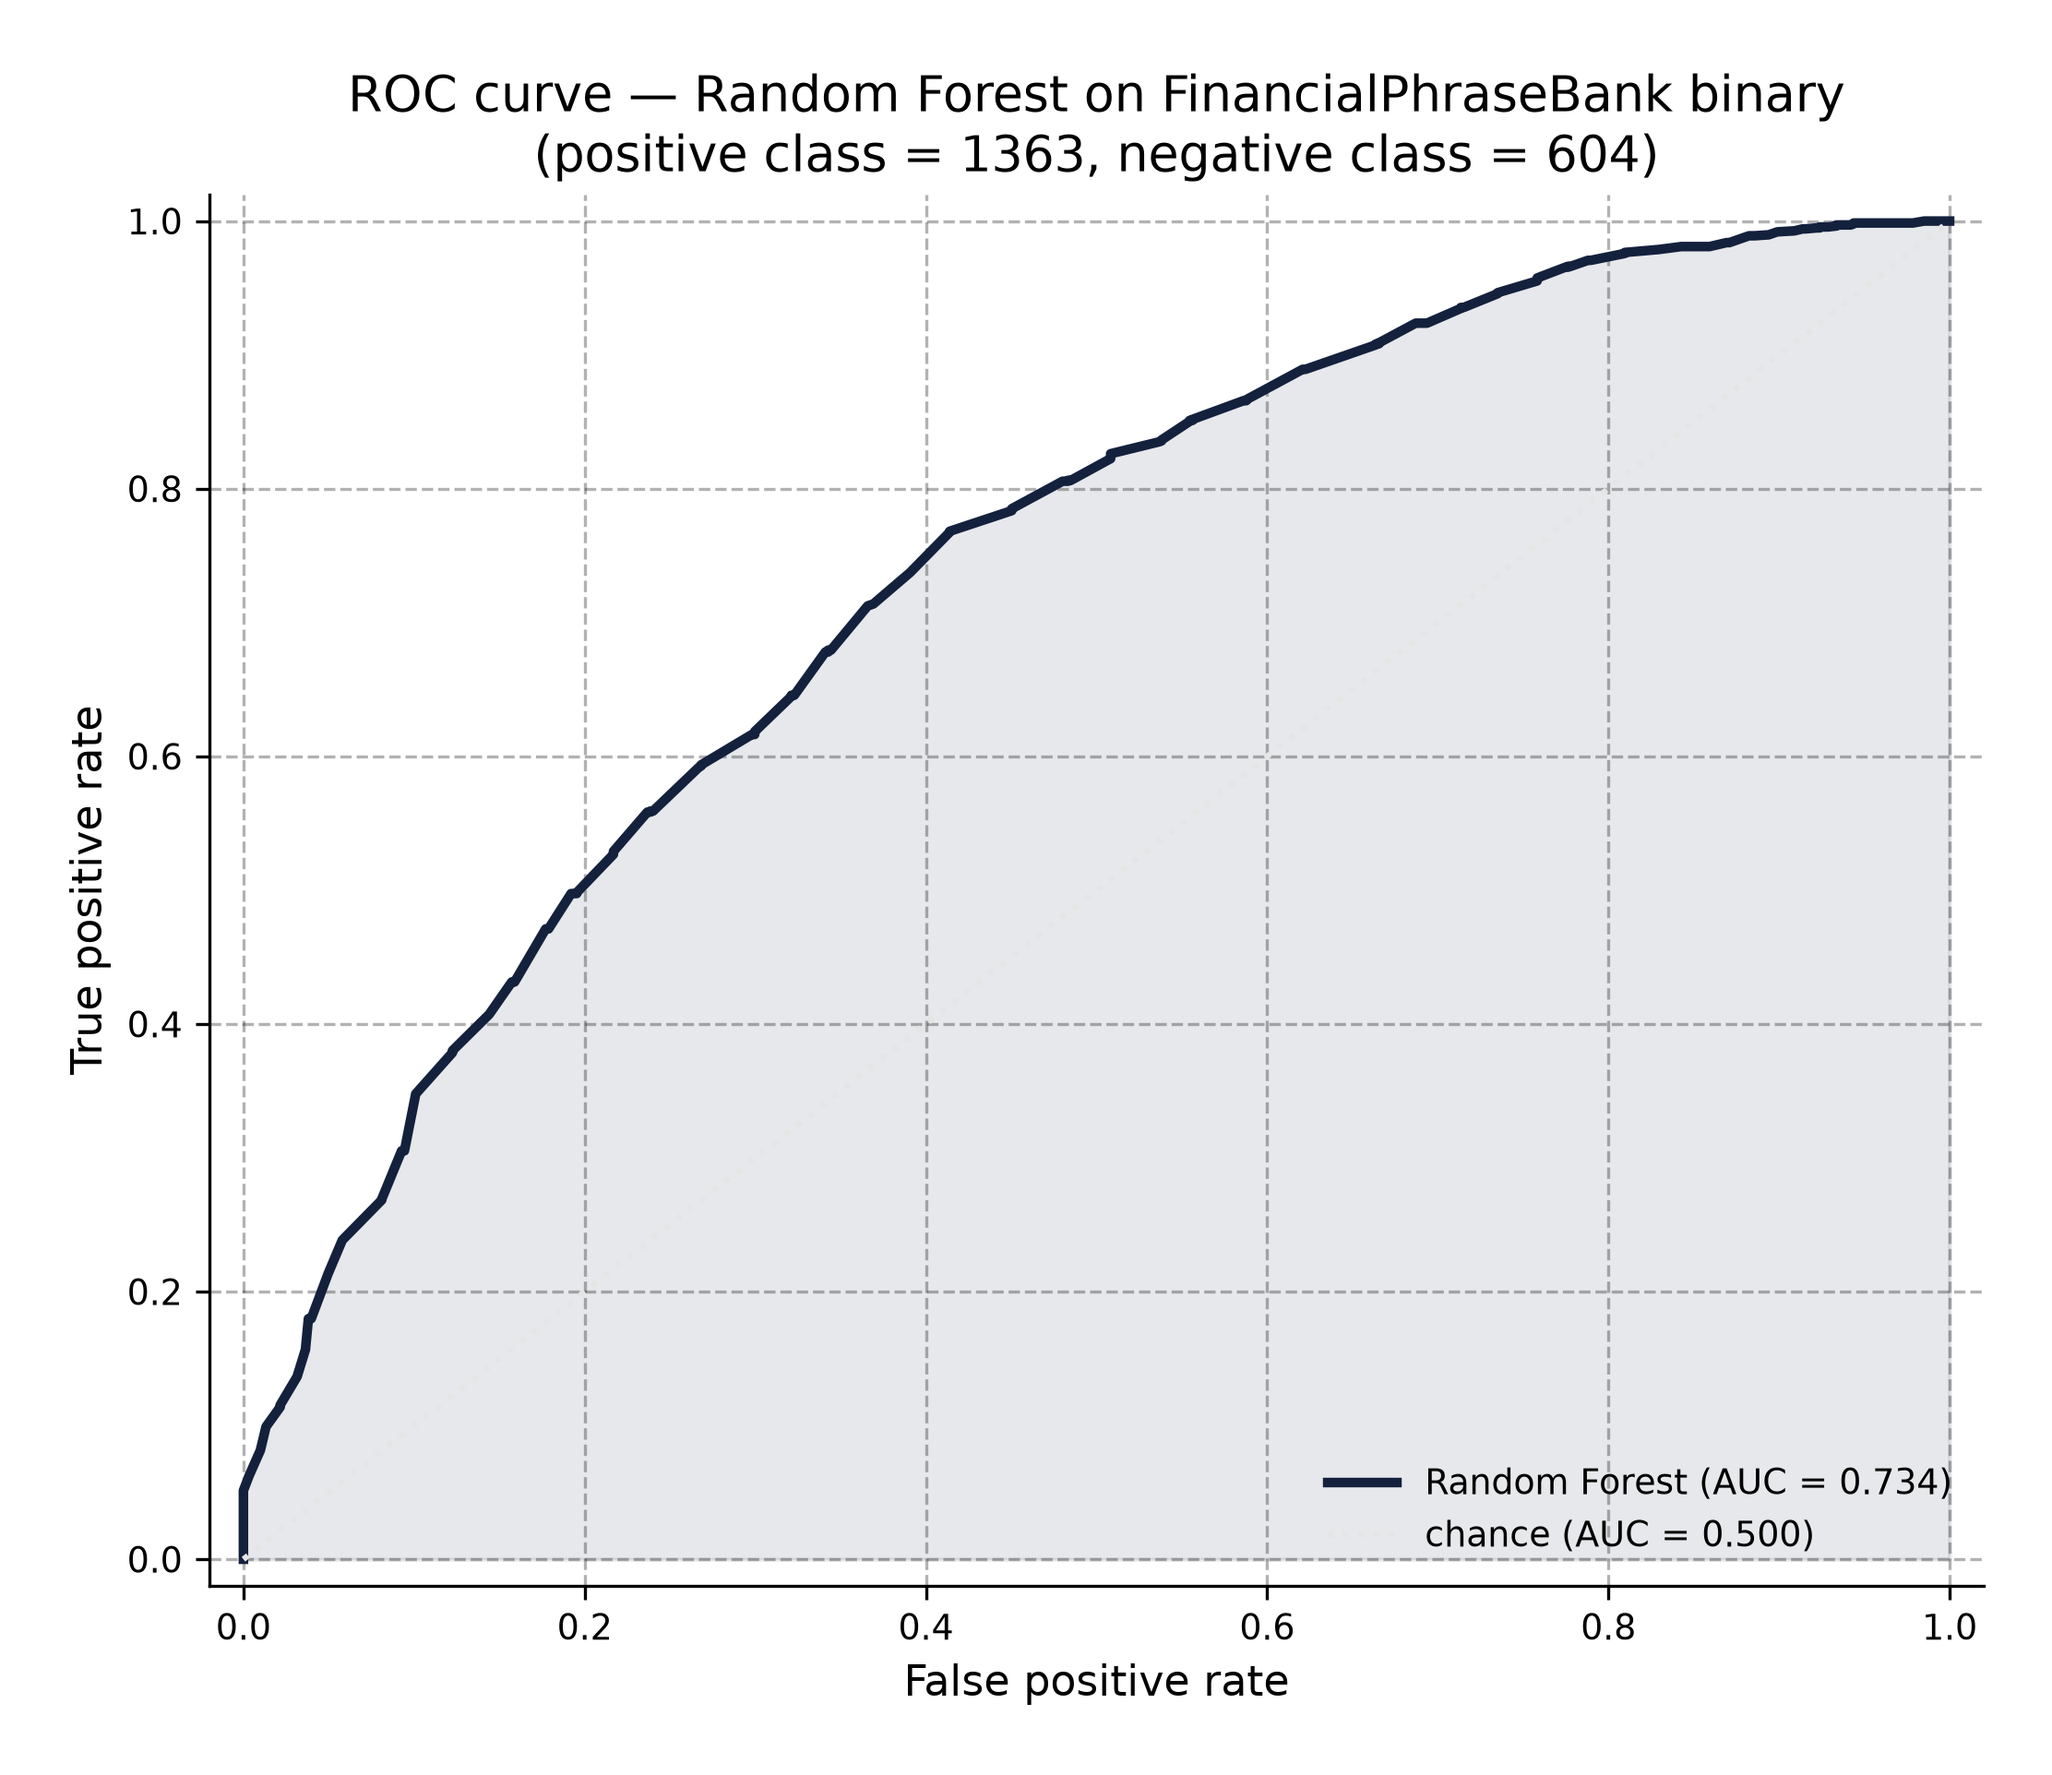
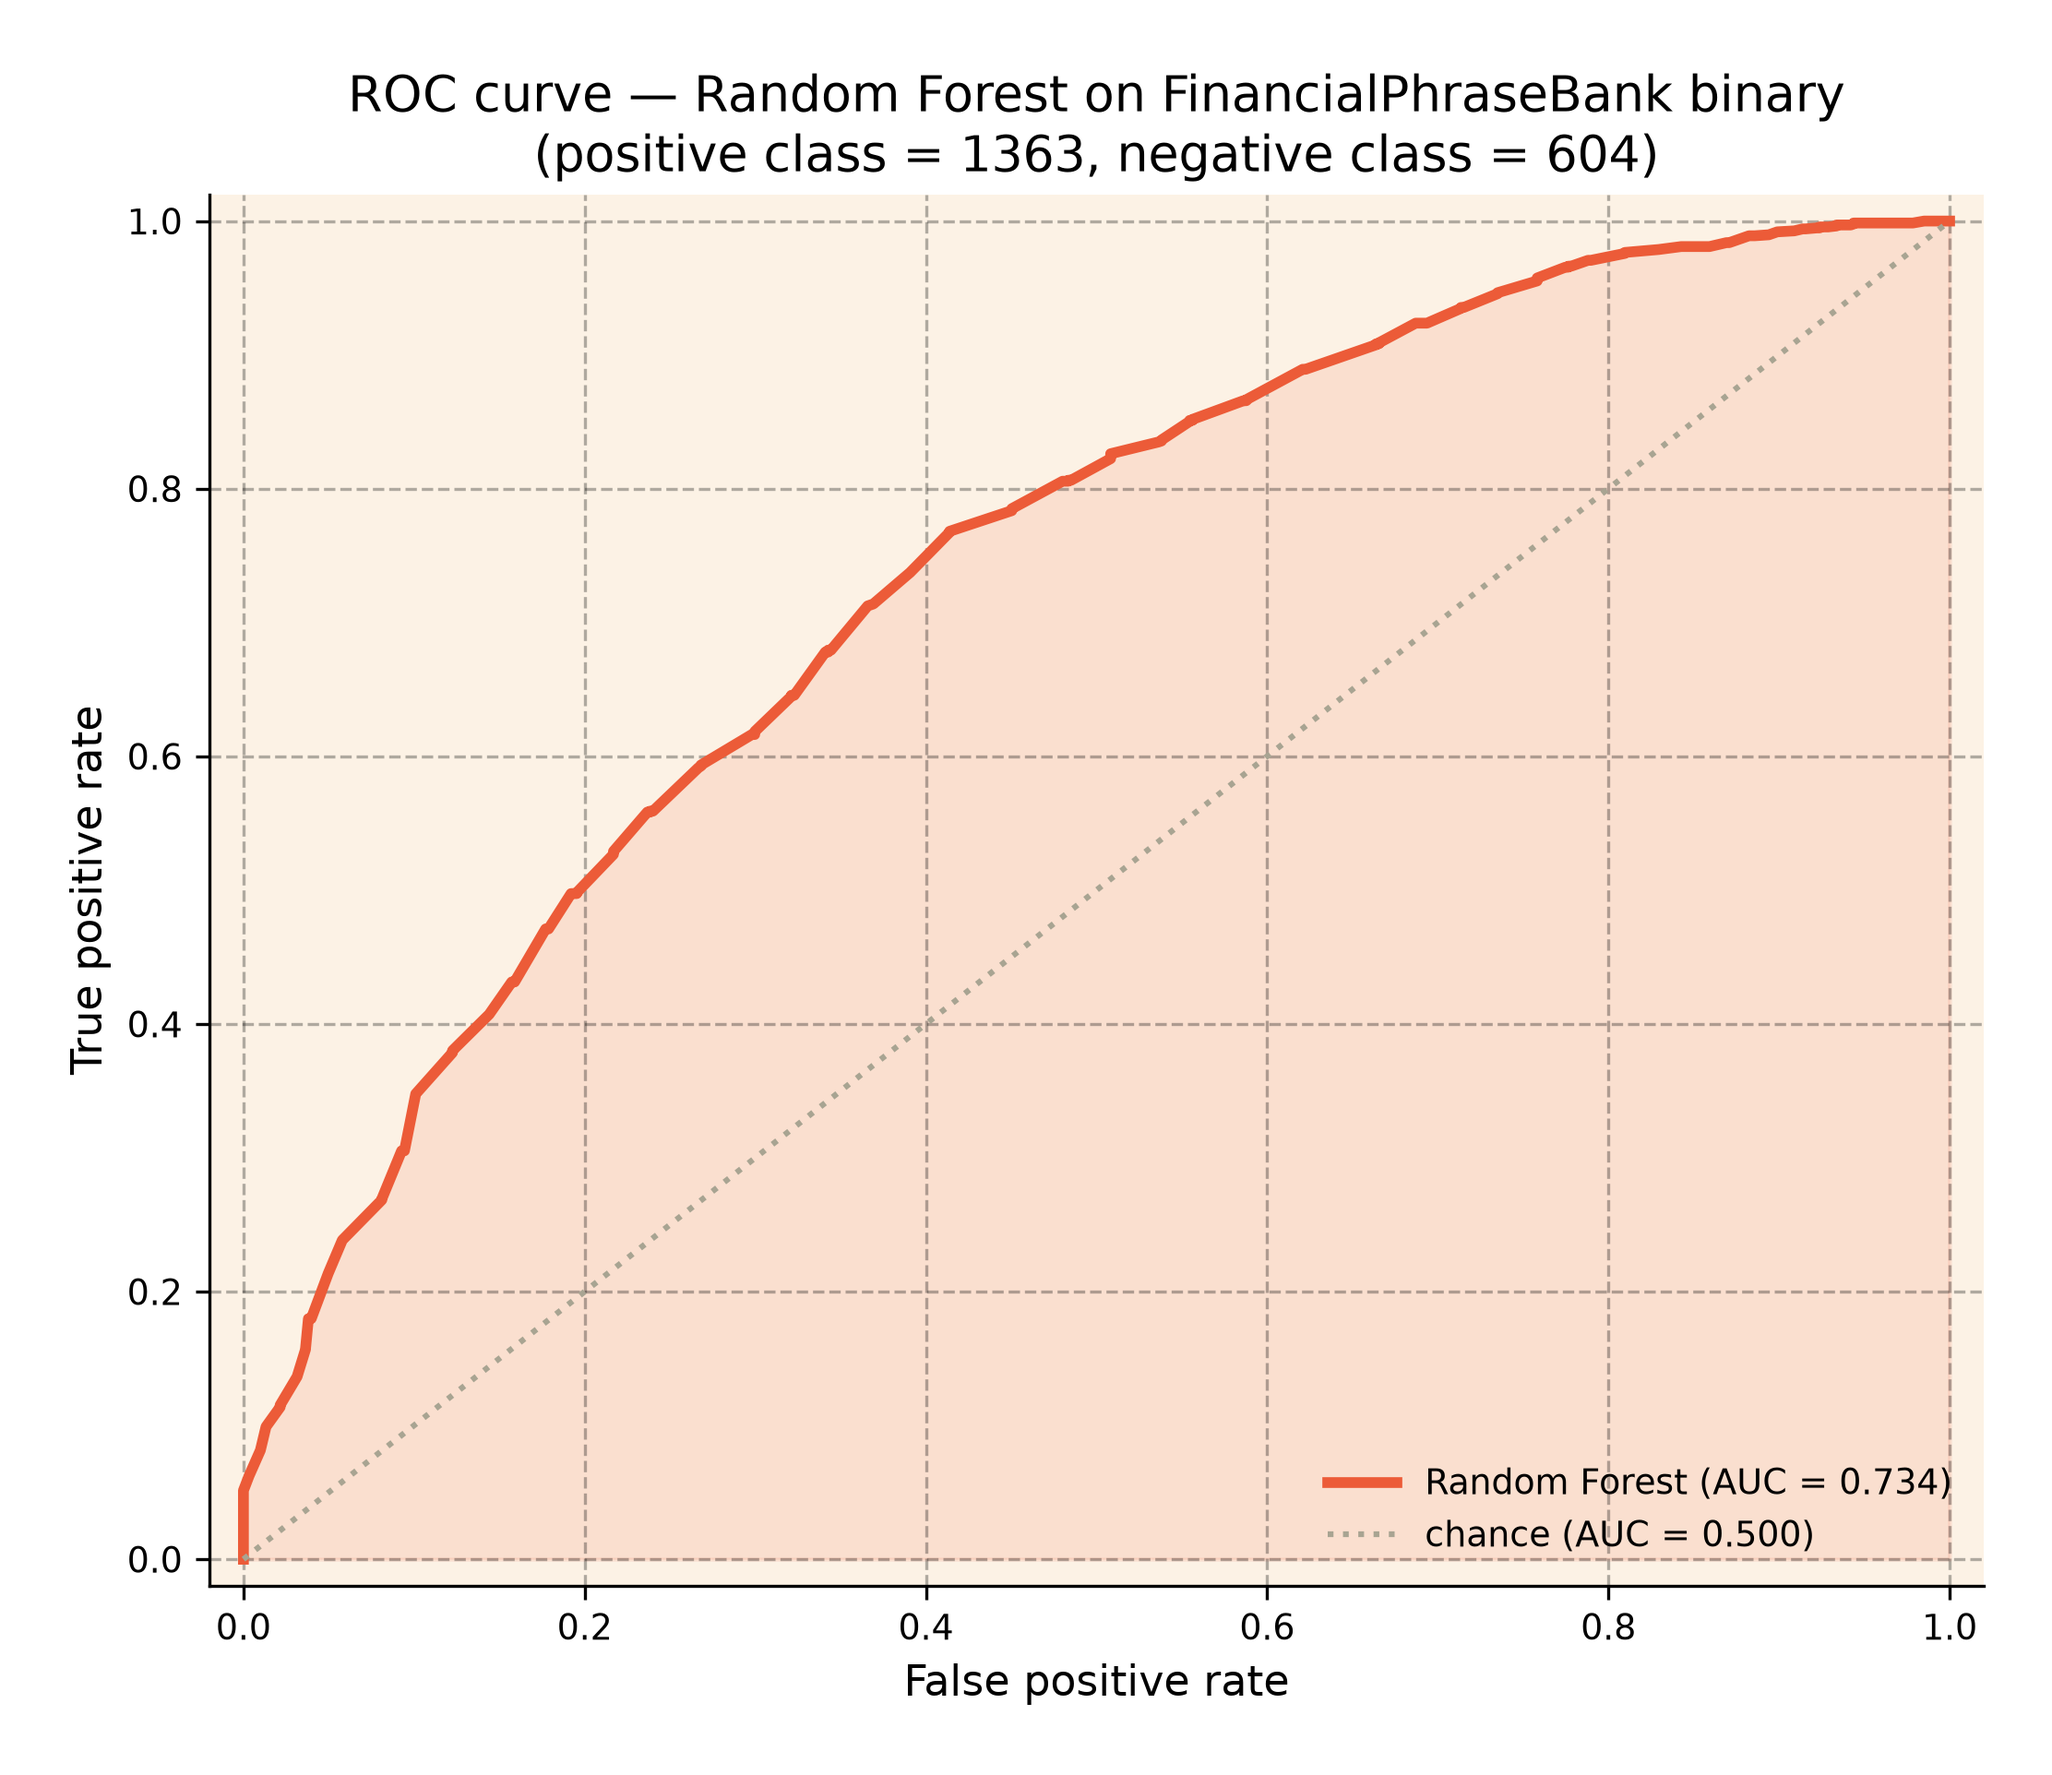
style: add warm palette, fix ROC bow visibility + headline 'Observed' line
Prussian Blue (#14213d) was too dark to read on white when overlaid
on an alpha-0.1 fill — the dashed 'Observed' line in the headline
figure and the ROC curve bow both disappeared into the fill.

- New PALETTE_WARM in src/style.py: dark brown, tan, cream, red-orange
- plot_roc: red-orange bow on cream background, tan chance line
- plot_headline_summary: red-orange 'Observed' line, dark-brown
  'Class-prior' line — both now visible against grey histogram

Other 11 figures untouched (Prussian Blue + orange read fine on
solid bar fills; the visibility problem was specific to line-on-fill).

diff --git a/src/figures.py b/src/figures.py
@@ -18,7 +18,7 @@ import numpy as np
 import pandas as pd
 
 # Project-wide style. Importing the module also applies the rcParams.
-from src.style import apply_style, PALETTE, SEMANTIC
+from src.style import apply_style, PALETTE, PALETTE_WARM, SEMANTIC
 
 apply_style()
 
@@ -113,12 +113,12 @@ def plot_headline_summary(out_path: Path) -> None:
         edgecolor="black", linewidth=0.5,
     )
     axes[1].axvline(
-        cv["accuracy_mean"], color=COLORS["primary"],
-        linestyle="--", linewidth=2.5,
+        cv["accuracy_mean"], color=PALETTE_WARM["accent"],
+        linestyle="--", linewidth=2.8,
         label=f"Observed ({cv['accuracy_mean']:.3f})",
     )
     axes[1].axvline(
-        0.693, color=COLORS["secondary"],
+        0.693, color=PALETTE_WARM["dark"],
         linestyle=":", linewidth=2,
         label="Class-prior (0.693)",
     )
@@ -396,9 +396,17 @@ def plot_roc(out_path: Path) -> None:
     roc_auc = auc(fpr, tpr)
 
     fig, ax = plt.subplots(figsize=(7, 6))
-    ax.plot(fpr, tpr, color=COLORS["primary"], linewidth=2.5, label=f"Random Forest (AUC = {roc_auc:.3f})")
-    ax.plot([0, 1], [0, 1], color=COLORS["grey"], linestyle=":", label="chance (AUC = 0.500)")
-    ax.fill_between(fpr, 0, tpr, color=COLORS["primary"], alpha=0.1)
+    # Use the warm palette here: the bow (ROC curve) needs a high-contrast
+    # accent color. Prussian Blue is too dark and gets lost against the
+    # area fill. Red-orange (#EC5B38) on cream reads cleanly.
+    from src.style import PALETTE_WARM
+    ax.plot(fpr, tpr, color=PALETTE_WARM["accent"], linewidth=2.8,
+            label=f"Random Forest (AUC = {roc_auc:.3f})")
+    ax.plot([0, 1], [0, 1], color=PALETTE_WARM["tan"], linestyle=":",
+            linewidth=1.5, label="chance (AUC = 0.500)")
+    ax.fill_between(fpr, 0, tpr, color=PALETTE_WARM["accent"], alpha=0.12)
+    # Cream-toned background for this figure, so the red-orange bow pops.
+    ax.set_facecolor(PALETTE_WARM["cream"])
     ax.set_xlabel("False positive rate")
     ax.set_ylabel("True positive rate")
     ax.set_title("ROC curve — Random Forest on FinancialPhraseBank binary\n"

diff --git a/src/style.py b/src/style.py
@@ -29,6 +29,18 @@ PALETTE = {
     "white":        "#ffffff",
 }
 
+# Warm palette — used for figures where the cool palette has poor contrast
+# (e.g. ROC curve, where a dark blue line on white is hard to read against
+# the area fill underneath). These do NOT replace the main palette; they
+# are imported into specific figures as needed.
+PALETTE_WARM = {
+    "dark":         "#524646",   # warm dark brown
+    "tan":          "#A8A492",   # warm muted tan
+    "cream":        "#FCF2E5",   # cream / paper white
+    "accent":       "#EC5B38",   # red-orange (high contrast on cream)
+    "ink":          "#2a2424",   # near-black for text on cream
+}
+
 # Convenience semantic aliases. These map chart roles to palette entries
 # so a figure can ask for "primary", "muted", etc. and we can change the
 # mapping in one place.
